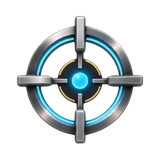
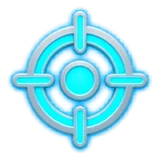
Vondst-app: hele app in lichte stijl met de lichte plaatjes van Nova; licht app-icoon
Claude-Session: https://claude.ai/code/session_01UosjxgzjLT3aTts3jtDDbK

diff --git a/vondst/index.html b/vondst/index.html
@@ -4,9 +4,9 @@
 <meta charset="utf-8">
 <meta name="viewport" content="width=device-width, initial-scale=1, viewport-fit=cover, user-scalable=no">
 <meta name="robots" content="noindex, nofollow">
-<meta name="theme-color" content="#14110d">
+<meta name="theme-color" content="#eef4fa">
 <meta name="apple-mobile-web-app-capable" content="yes">
-<meta name="apple-mobile-web-app-status-bar-style" content="black-translucent">
+<meta name="apple-mobile-web-app-status-bar-style" content="default">
 <title>Vondst – testversie</title>
 <link rel="manifest" href="manifest.webmanifest">
 <link rel="icon" href="icon-192.png">
@@ -344,6 +344,96 @@ nav button.aan svg{opacity:1;filter:saturate(1.1) drop-shadow(0 0 7px rgba(242,1
 #melding{position:fixed;left:50%;top:calc(90px + env(safe-area-inset-top));transform:translateX(-50%);z-index:6000;
   background:#000e;border:2px solid var(--goud);color:var(--tekst);padding:12px 18px;border-radius:14px;font-weight:700;
   max-width:90vw;text-align:center;display:none}
+
+/* =====================================================================
+   LICHTE STIJL (26-11-2026, Marius: "hele app licht maken")
+   ===================================================================== */
+:root{--bg:#eef4fa;--paneel:#ffffff;--lijn:#d3e0ec;--tekst:#0f2238;--zacht:#55697f;--goud:#f2b630;--goud2:#a86f00;--blauw:#1f6fd0}
+html,body{background:var(--bg);color:var(--tekst)}
+/* zoekscherm (over het camerabeeld) */
+.bovenbalk{background:linear-gradient(rgba(238,244,250,.65),rgba(238,244,250,0))}
+.chip{background:rgba(255,255,255,.9);border-color:rgba(31,111,208,.25);color:var(--tekst);box-shadow:0 4px 12px rgba(15,34,56,.18)}
+.chip small{color:var(--zacht)}
+.chip.kroute,.chip.kstem{background:rgba(255,255,255,.9);color:var(--tekst)}
+.chip.kroute.aan,.chip.kstem.aan{color:#fff}
+.chip.kroute.aan small,.chip.kstem.aan small{color:#eaf6ff}
+.onderbalk{background:linear-gradient(rgba(238,244,250,0),rgba(238,244,250,.94) 42%)}
+#teller{color:var(--zacht)}
+#laatste{background:rgba(255,255,255,.96);border-color:rgba(242,182,48,.7);box-shadow:0 4px 14px rgba(15,34,56,.15)}
+#laatste .t{color:var(--tekst)} #laatste .s{color:var(--zacht)} #laatste .pijl{color:var(--goud2)}
+#camUit{background:var(--bg);color:var(--zacht)}
+/* kaart */
+#kaartDiv{background:#dde6ee}
+.kaartknoppen button.kk{background:linear-gradient(165deg,#ffffff,#e6f0fa);border-color:rgba(31,111,208,.3);color:var(--tekst);box-shadow:0 6px 16px rgba(15,34,56,.25)}
+.kaartknoppen button.kk span{text-shadow:none}
+#kleurKeuze{background:rgba(255,255,255,.95);border-color:var(--lijn);box-shadow:0 8px 24px rgba(15,34,56,.25)}
+#kleurKeuze button{border-color:rgba(15,34,56,.2)}
+#kleurKeuze button.aan{border-color:var(--tekst)}
+.leaflet-control-attribution{background:rgba(255,255,255,.75) !important;color:#333 !important}
+.leaflet-control-attribution a{color:#1f5fc4 !important}
+#lagenPaneel,#routesPaneel{background:#fff;border-top-color:var(--goud);box-shadow:0 -10px 30px rgba(15,34,56,.25)}
+.paneelkop{background:#fff;color:var(--tekst)}
+.lrij{background:#f5f9fd;color:var(--tekst)}
+.lgroep{color:var(--goud2)}
+.routekaart{background:#f7fafd}
+.rk-knoppen button{background:#eef4fa;color:var(--tekst)}
+.rk-knoppen button.rood{color:#b3221a;border-color:#f1b5b0}
+.dekking{background:#fff8e6;border-color:#f0d9a0;color:#5a4300}
+.vandaag{color:var(--tekst)}
+/* lijst en detail */
+.kop{color:var(--tekst)}
+.kaartje{background:#fff;box-shadow:0 3px 12px rgba(15,34,56,.08)}
+.kaartje img{background:#e3ebf3}
+.kaartje .naam{color:var(--tekst)}
+.l-herkend{background:#dff7e8;color:#17713a} .l-onzeker{background:#fff1cc;color:#8a5a00}
+.l-gevaar{background:#ffe0dd;color:#a0150f} .l-wacht{background:#e9eef3;color:#4a5a6b} .l-pan{background:#e0efff;color:#1f5fc4}
+.filters button{background:#fff;color:var(--tekst)}
+.filters button.fgoud{color:#8a5a00} .filters button.foranje{color:#b35400} .filters button.fpaars{color:#5b2fc0} .filters button.frood{color:#b3221a} .filters button.fblauw{color:#1f5fc4}
+.filters button.aan{color:#fff}
+.filters button.fgoud.aan{color:#1a1206} .filters button.foranje.aan{color:#241300}
+.terug{background:var(--bg);border-bottom-color:var(--lijn)}
+.blok{background:#fff;box-shadow:0 3px 12px rgba(15,34,56,.07)}
+.blok h3{color:var(--goud2)}
+.rij{border-bottom-color:#e6edf4}
+.balk,.pro-teller{background:#e3ebf3}
+.fotos img{background:#e3ebf3}
+.groot{background:#fff;color:var(--tekst)}
+.groot.kleur{color:#fff;box-shadow:0 4px 12px rgba(15,34,56,.2),inset 0 1px 0 rgba(255,255,255,.25)}
+.groot.koranje{color:#241300}
+.groot.goud{color:#1a1206}
+.groot.rood{background:#fff;color:#b3221a;border-color:#f1b5b0}
+.veld input,.veld textarea,.veld select{background:#fff;color:var(--tekst);border-color:var(--lijn)}
+.v-veilig{background:#dff7e8;color:#135c2f} .v-voorzichtig{background:#fff1cc;color:#6b4500}
+.leeg{color:var(--zacht)}
+.uitleg{color:var(--zacht)}
+/* uitleg */
+#uitleg{background:radial-gradient(circle at 50% 18%,#ffffff,#e3eef8 70%)}
+.u-dia h2{color:var(--goud2)} .u-dia p{color:var(--tekst)} .u-dia b{color:var(--tekst)}
+.u-dia .u-lijst div{background:#fff;border-color:#f0d9a0}
+.u-stippen i{background:#c9d6e3}
+.u-knoppen button{background:#fff;color:var(--tekst)}
+.u-knoppen button.goud{color:#1a1206}
+.u-beeld{box-shadow:0 10px 30px rgba(15,34,56,.2)}
+/* pro */
+#pro{background:radial-gradient(circle at 50% 0%,#fff6dc,#eef4fa 55%);color:var(--tekst)}
+#pro h2{color:var(--tekst)}
+.pro-onder{color:var(--goud2)}
+.pro-dicht{background:#fff;border-color:var(--lijn);color:var(--tekst)}
+.pro-optie{background:#fff;color:var(--tekst)}
+.pro-optie.gekozen{background:#fff8e6}
+.pro-banner{box-shadow:0 10px 30px rgba(15,34,56,.2),0 0 0 1px rgba(242,182,48,.35)}
+/* menu onderin */
+nav{background:linear-gradient(#ffffff,#eef4fa);border-top-color:var(--lijn)}
+nav button{color:var(--zacht)}
+nav button.aan{color:var(--blauw)}
+nav button img{opacity:.75;filter:saturate(.8) drop-shadow(0 2px 3px rgba(15,34,56,.25))}
+nav button.aan img{filter:saturate(1.1) drop-shadow(0 0 8px rgba(31,111,208,.35))}
+#melding{background:#fff;color:var(--tekst);box-shadow:0 8px 24px rgba(15,34,56,.25)}
+#knop{background:radial-gradient(circle at 35% 28%,#fff1c4,#ffd36b 22%,#f2b630 58%,#b57f0c) !important;color:#1a1206}
+#richt i{border-color:#f2b630}
+.chip.kroute small,.chip.kstem small,.chip small{color:var(--zacht)}
+.chip.kroute.aan small,.chip.kstem.aan small{color:#eaf6ff}
+#stemTekst{color:#fff;text-shadow:0 1px 3px #000}
 </style>
 </head>
 <body>

diff --git a/vondst/sw.js b/vondst/sw.js
@@ -1,5 +1,5 @@
 // Eenvoudige offline-cache: eigen bestanden eerst van internet (zodat updates aankomen), anders uit de cache.
-const CACHE = 'vondst-v22';
+const CACHE = 'vondst-v23';
 const BESTANDEN = ['./', 'index.html', 'app.js', 'manifest.webmanifest', 'icon-192.png',
   'https://unpkg.com/leaflet@1.9.4/dist/leaflet.css', 'https://unpkg.com/leaflet@1.9.4/dist/leaflet.js'];
 self.addEventListener('install', e => { e.waitUntil(caches.open(CACHE).then(c => c.addAll(BESTANDEN)).catch(() => {})); self.skipWaiting(); });
